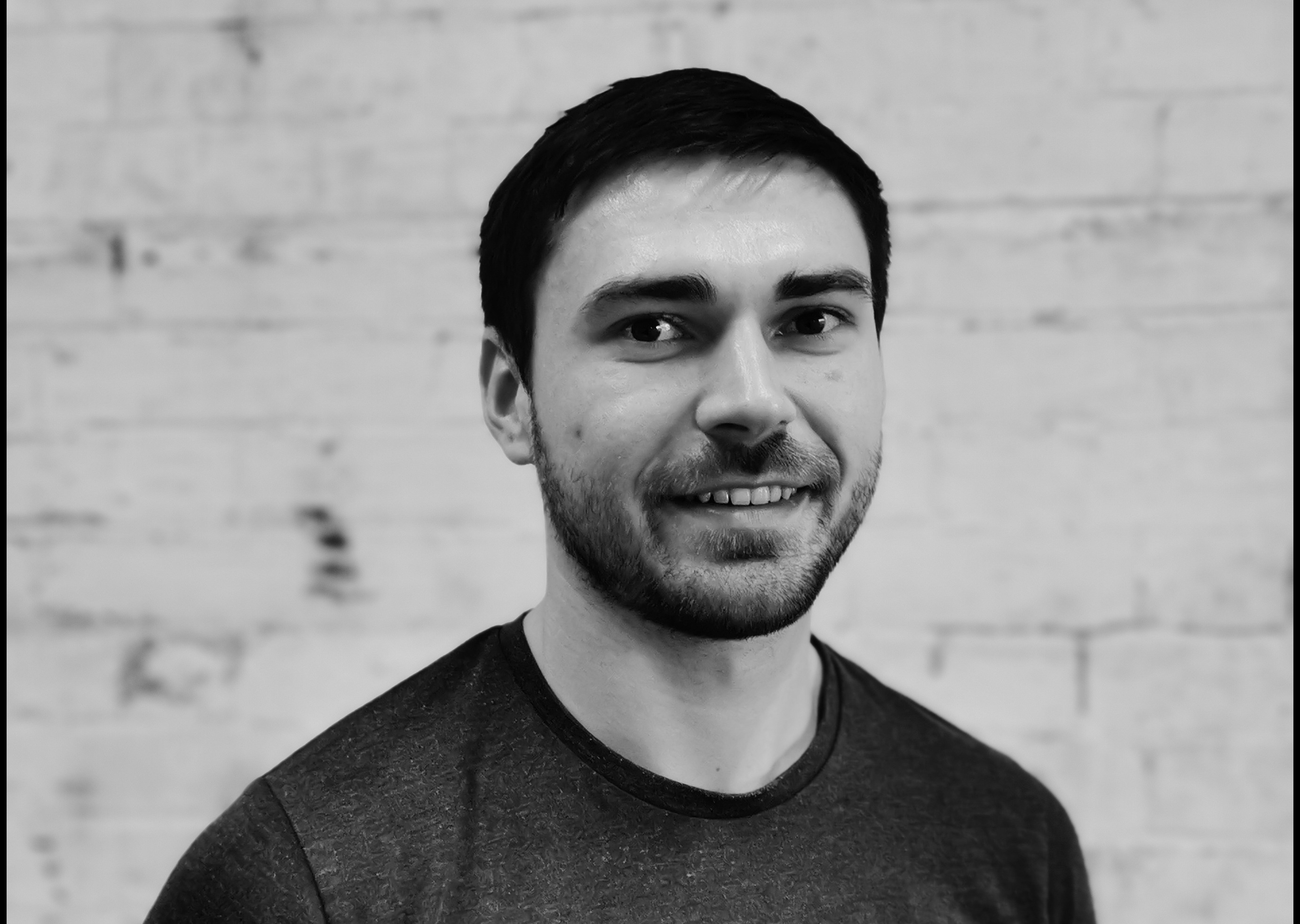
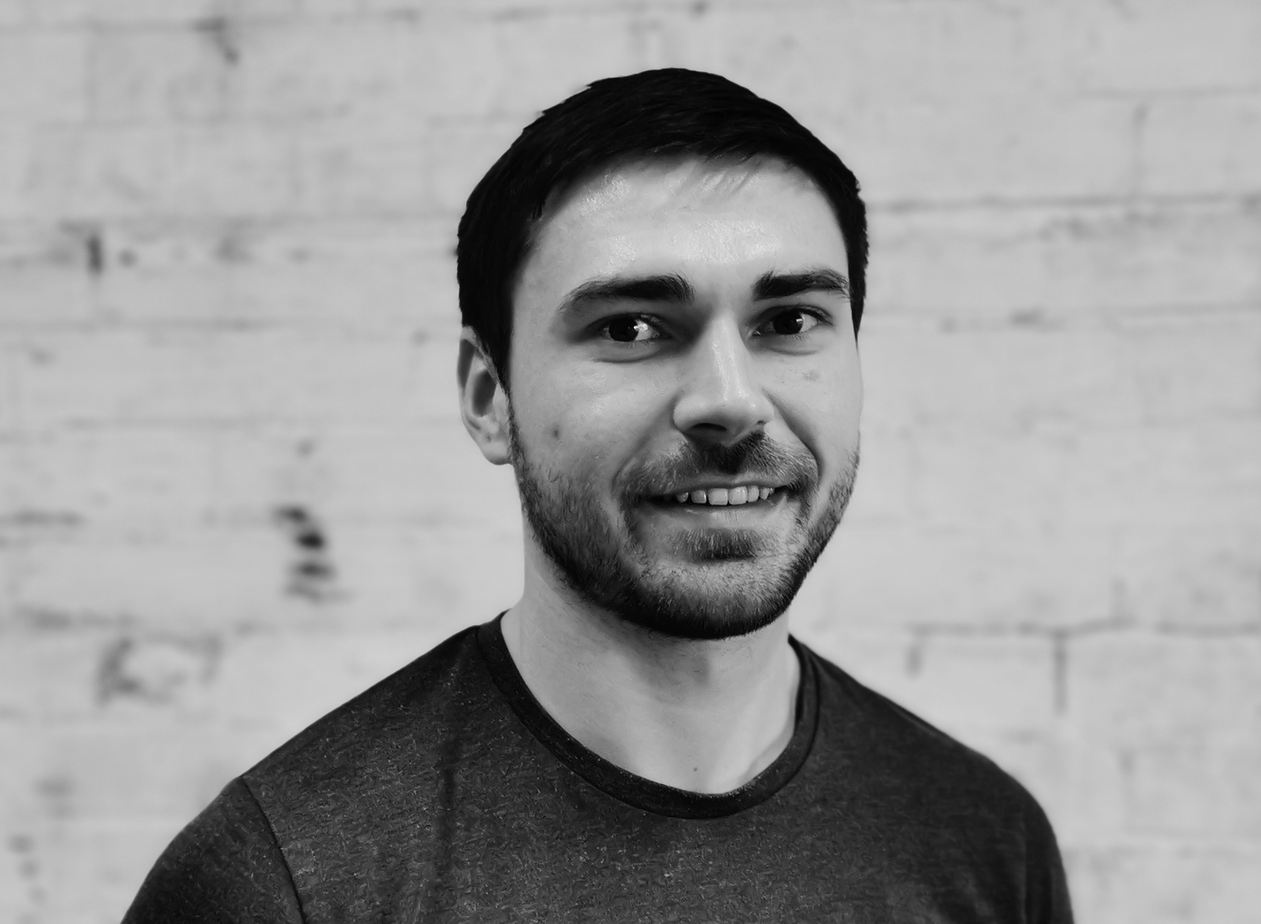
Add back in Get to know me section and add borders to images

diff --git a/gridsome-portfolio-starter/src/pages/Index.vue b/gridsome-portfolio-starter/src/pages/Index.vue
@@ -6,7 +6,7 @@
         <div class="text-green-700 leading-tight">Software Engineer</div>
       </div>
       <div class="mt-8 sm:mt-0">
-        <img src="../../static/portrait_1.jpg" alt="hero" width=300 class="mx-auto sm:mx-0" />
+        <img src="../../static/portrait_1.jpg" alt="hero" width=300 class="mx-auto sm:mx-0 border-8 border-green-700" />
       </div>
     </div> <!-- end hero -->
 
@@ -42,6 +42,22 @@
 
         </ul>
       </div> <!-- end projects -->
+    </div>
+
+    <div class="overflow-x-hidden border-gray-200 border-b">
+      <div class="get-to-know-me container-inner mx-auto text-xl pb-16 relative">
+        <h2 class="font-bold mb-6" id="about">Get to know me:</h2>
+
+        <div class="absolute left-0" style="top: 50px; transform: translateX(-100%)">
+          <svg width="170px" height="170px"><use xlink:href="#dots-triangle" /></svg>
+        </div>
+
+        <div class="flex flex-col sm:flex-row justify-between items-center mb-16">
+          <div><g-image src="../../static/skate.jpg" alt="avatar" class="w-32 h-32 rounded-full mb-8 lg:mb-0 border-4 border-green-700" /></div>
+          <div class="flex-1 text-lg sm:text-xl ml-6">In my spare time I skateboard, go to the gym and listen to audiobooks - mostly non-fiction!</div>
+        </div>
+
+      </div> <!-- end get-to-know me -->
     </div>
       <div class="container-inner mx-auto -mt-32 pb-4 overflow-x-hidden">
         <svg width="725" height="166" xmlns="http://www.w3.org/2000/svg"><g fill="none" fill-rule="evenodd"><g opacity=".515"><path d="M1.848 165.696a1.848 1.848 0 1 1 0-3.696 1.848 1.848 0 0 1 0 3.696zm370 0a1.848 1.848 0 1 1 0-3.696 1.848 1.848 0 0 1 0 3.696zM20.326 162a1.848 1.848 0 1 1 0 3.696 1.848 1.848 0 0 1 0-3.696zm370 0a1.848 1.848 0 1 1 0 3.696 1.848 1.848 0 0 1 0-3.696zm-351.522 0a1.848 1.848 0 1 1 0 3.696 1.848 1.848 0 0 1 0-3.696zm370 0a1.848 1.848 0 1 1 0 3.696 1.848 1.848 0 0 1 0-3.696zm-351.521 0a1.848 1.848 0 1 1 0 3.696 1.848 1.848 0 0 1 0-3.696zm370 0a1.848 1.848 0 1 1 0 3.696 1.848 1.848 0 0 1 0-3.696zM75.76 162a1.848 1.848 0 1 1 0 3.696 1.848 1.848 0 0 1 0-3.696zm370 0a1.848 1.848 0 1 1 0 3.696 1.848 1.848 0 0 1 0-3.696zm-351.52 0a1.848 1.848 0 1 1 0 3.696 1.848 1.848 0 0 1 0-3.696zm370 0a1.848 1.848 0 1 1 0 3.696 1.848 1.848 0 0 1 0-3.696zm-351.522 0a1.848 1.848 0 1 1 0 3.696 1.848 1.848 0 0 1 0-3.696zm370 0a1.848 1.848 0 1 1 0 3.696 1.848 1.848 0 0 1 0-3.696zm-351.521 0a1.848 1.848 0 1 1 0 3.696 1.848 1.848 0 0 1 0-3.696zm370 0a1.848 1.848 0 1 1 0 3.696 1.848 1.848 0 0 1 0-3.696zm-351.522 0a1.848 1.848 0 1 1 0 3.696 1.848 1.848 0 0 1 0-3.696zm370 0a1.848 1.848 0 1 1 0 3.696 1.848 1.848 0 0 1 0-3.696zm-351.522 0a1.848 1.848 0 1 1 0 3.696 1.848 1.848 0 0 1 0-3.696zm370 0a1.848 1.848 0 1 1 0 3.696 1.848 1.848 0 0 1 0-3.696zm-351.305 3.696a1.848 1.848 0 1 1 0-3.696 1.848 1.848 0 0 1 0 3.696zm370 0a1.848 1.848 0 1 1 0-3.696 1.848 1.848 0 0 1 0 3.696zM205.326 162a1.848 1.848 0 1 1 0 3.696 1.848 1.848 0 0 1 0-3.696zm370 0a1.848 1.848 0 1 1 0 3.696 1.848 1.848 0 0 1 0-3.696zm-351.522 0a1.848 1.848 0 1 1 0 3.696 1.848 1.848 0 0 1 0-3.696zm370 0a1.848 1.848 0 1 1 0 3.696 1.848 1.848 0 0 1 0-3.696zm-351.521 0a1.848 1.848 0 1 1 0 3.696 1.848 1.848 0 0 1 0-3.696zm370 0a1.848 1.848 0 1 1 0 3.696 1.848 1.848 0 0 1 0-3.696zm-351.523 0a1.848 1.848 0 1 1 0 3.696 1.848 1.848 0 0 1 0-3.696zm370 0a1.848 1.848 0 1 1 0 3.696 1.848 1.848 0 0 1 0-3.696zm-351.52 0a1.848 1.848 0 1 1 0 3.696 1.848 1.848 0 0 1 0-3.696zm370 0a1.848 1.848 0 1 1 0 3.696 1.848 1.848 0 0 1 0-3.696zm-351.522 0a1.848 1.848 0 1 1 0 3.696 1.848 1.848 0 0 1 0-3.696zm370 0a1.848 1.848 0 1 1 0 3.696 1.848 1.848 0 0 1 0-3.696zm-351.521 0a1.848 1.848 0 1 1 0 3.696 1.848 1.848 0 0 1 0-3.696zm370 0a1.848 1.848 0 1 1 0 3.696 1.848 1.848 0 0 1 0-3.696zm-351.522 0a1.848 1.848 0 1 1 0 3.696 1.848 1.848 0 0 1 0-3.696zm370 0a1.848 1.848 0 1 1 0 3.696 1.848 1.848 0 0 1 0-3.696zm-351.522 0a1.848 1.848 0 1 1 0 3.696 1.848 1.848 0 0 1 0-3.696zm370 0a1.848 1.848 0 1 1 0 3.696 1.848 1.848 0 0 1 0-3.696z" opacity=".503" fill="#2E855A"/></g><g opacity=".9"><g opacity=".515" fill="#2E855A"><path d="M1.848 147.696a1.848 1.848 0 1 1 0-3.696 1.848 1.848 0 0 1 0 3.696zm370 0a1.848 1.848 0 1 1 0-3.696 1.848 1.848 0 0 1 0 3.696zM20.326 144a1.848 1.848 0 1 1 0 3.696 1.848 1.848 0 0 1 0-3.696zm370 0a1.848 1.848 0 1 1 0 3.696 1.848 1.848 0 0 1 0-3.696zm-351.522 0a1.848 1.848 0 1 1 0 3.696 1.848 1.848 0 0 1 0-3.696zm370 0a1.848 1.848 0 1 1 0 3.696 1.848 1.848 0 0 1 0-3.696zm-351.521 0a1.848 1.848 0 1 1 0 3.696 1.848 1.848 0 0 1 0-3.696zm370 0a1.848 1.848 0 1 1 0 3.696 1.848 1.848 0 0 1 0-3.696zM75.76 144a1.848 1.848 0 1 1 0 3.696 1.848 1.848 0 0 1 0-3.696zm370 0a1.848 1.848 0 1 1 0 3.696 1.848 1.848 0 0 1 0-3.696zm-351.52 0a1.848 1.848 0 1 1 0 3.696 1.848 1.848 0 0 1 0-3.696zm370 0a1.848 1.848 0 1 1 0 3.696 1.848 1.848 0 0 1 0-3.696zm-351.522 0a1.848 1.848 0 1 1 0 3.696 1.848 1.848 0 0 1 0-3.696zm370 0a1.848 1.848 0 1 1 0 3.696 1.848 1.848 0 0 1 0-3.696zm-351.521 0a1.848 1.848 0 1 1 0 3.696 1.848 1.848 0 0 1 0-3.696zm370 0a1.848 1.848 0 1 1 0 3.696 1.848 1.848 0 0 1 0-3.696zm-351.522 0a1.848 1.848 0 1 1 0 3.696 1.848 1.848 0 0 1 0-3.696zm370 0a1.848 1.848 0 1 1 0 3.696 1.848 1.848 0 0 1 0-3.696zm-351.522 0a1.848 1.848 0 1 1 0 3.696 1.848 1.848 0 0 1 0-3.696zm370 0a1.848 1.848 0 1 1 0 3.696 1.848 1.848 0 0 1 0-3.696zm-351.305 3.696a1.848 1.848 0 1 1 0-3.696 1.848 1.848 0 0 1 0 3.696zm370 0a1.848 1.848 0 1 1 0-3.696 1.848 1.848 0 0 1 0 3.696zM205.326 144a1.848 1.848 0 1 1 0 3.696 1.848 1.848 0 0 1 0-3.696zm370 0a1.848 1.848 0 1 1 0 3.696 1.848 1.848 0 0 1 0-3.696zm-351.522 0a1.848 1.848 0 1 1 0 3.696 1.848 1.848 0 0 1 0-3.696zm370 0a1.848 1.848 0 1 1 0 3.696 1.848 1.848 0 0 1 0-3.696zm-351.521 0a1.848 1.848 0 1 1 0 3.696 1.848 1.848 0 0 1 0-3.696zm370 0a1.848 1.848 0 1 1 0 3.696 1.848 1.848 0 0 1 0-3.696zm-351.523 0a1.848 1.848 0 1 1 0 3.696 1.848 1.848 0 0 1 0-3.696zm370 0a1.848 1.848 0 1 1 0 3.696 1.848 1.848 0 0 1 0-3.696zm-351.52 0a1.848 1.848 0 1 1 0 3.696 1.848 1.848 0 0 1 0-3.696zm370 0a1.848 1.848 0 1 1 0 3.696 1.848 1.848 0 0 1 0-3.696zm-351.522 0a1.848 1.848 0 1 1 0 3.696 1.848 1.848 0 0 1 0-3.696zm370 0a1.848 1.848 0 1 1 0 3.696 1.848 1.848 0 0 1 0-3.696zm-351.521 0a1.848 1.848 0 1 1 0 3.696 1.848 1.848 0 0 1 0-3.696zm370 0a1.848 1.848 0 1 1 0 3.696 1.848 1.848 0 0 1 0-3.696zm-351.522 0a1.848 1.848 0 1 1 0 3.696 1.848 1.848 0 0 1 0-3.696zm370 0a1.848 1.848 0 1 1 0 3.696 1.848 1.848 0 0 1 0-3.696zm-351.522 0a1.848 1.848 0 1 1 0 3.696 1.848 1.848 0 0 1 0-3.696zm370 0a1.848 1.848 0 1 1 0 3.696 1.848 1.848 0 0 1 0-3.696z" opacity=".503"/></g></g><g opacity=".8"><g opacity=".515" fill="#2E855A"><path d="M1.848 129.696a1.848 1.848 0 1 1 0-3.696 1.848 1.848 0 0 1 0 3.696zm370 0a1.848 1.848 0 1 1 0-3.696 1.848 1.848 0 0 1 0 3.696zM20.326 126a1.848 1.848 0 1 1 0 3.696 1.848 1.848 0 0 1 0-3.696zm370 0a1.848 1.848 0 1 1 0 3.696 1.848 1.848 0 0 1 0-3.696zm-351.522 0a1.848 1.848 0 1 1 0 3.696 1.848 1.848 0 0 1 0-3.696zm370 0a1.848 1.848 0 1 1 0 3.696 1.848 1.848 0 0 1 0-3.696zm-351.521 0a1.848 1.848 0 1 1 0 3.696 1.848 1.848 0 0 1 0-3.696zm370 0a1.848 1.848 0 1 1 0 3.696 1.848 1.848 0 0 1 0-3.696zM75.76 126a1.848 1.848 0 1 1 0 3.696 1.848 1.848 0 0 1 0-3.696zm370 0a1.848 1.848 0 1 1 0 3.696 1.848 1.848 0 0 1 0-3.696zm-351.52 0a1.848 1.848 0 1 1 0 3.696 1.848 1.848 0 0 1 0-3.696zm370 0a1.848 1.848 0 1 1 0 3.696 1.848 1.848 0 0 1 0-3.696zm-351.522 0a1.848 1.848 0 1 1 0 3.696 1.848 1.848 0 0 1 0-3.696zm370 0a1.848 1.848 0 1 1 0 3.696 1.848 1.848 0 0 1 0-3.696zm-351.521 0a1.848 1.848 0 1 1 0 3.696 1.848 1.848 0 0 1 0-3.696zm370 0a1.848 1.848 0 1 1 0 3.696 1.848 1.848 0 0 1 0-3.696zm-351.522 0a1.848 1.848 0 1 1 0 3.696 1.848 1.848 0 0 1 0-3.696zm370 0a1.848 1.848 0 1 1 0 3.696 1.848 1.848 0 0 1 0-3.696zm-351.522 0a1.848 1.848 0 1 1 0 3.696 1.848 1.848 0 0 1 0-3.696zm370 0a1.848 1.848 0 1 1 0 3.696 1.848 1.848 0 0 1 0-3.696zm-351.305 3.696a1.848 1.848 0 1 1 0-3.696 1.848 1.848 0 0 1 0 3.696zm370 0a1.848 1.848 0 1 1 0-3.696 1.848 1.848 0 0 1 0 3.696zM205.326 126a1.848 1.848 0 1 1 0 3.696 1.848 1.848 0 0 1 0-3.696zm370 0a1.848 1.848 0 1 1 0 3.696 1.848 1.848 0 0 1 0-3.696zm-351.522 0a1.848 1.848 0 1 1 0 3.696 1.848 1.848 0 0 1 0-3.696zm370 0a1.848 1.848 0 1 1 0 3.696 1.848 1.848 0 0 1 0-3.696zm-351.521 0a1.848 1.848 0 1 1 0 3.696 1.848 1.848 0 0 1 0-3.696zm370 0a1.848 1.848 0 1 1 0 3.696 1.848 1.848 0 0 1 0-3.696zm-351.523 0a1.848 1.848 0 1 1 0 3.696 1.848 1.848 0 0 1 0-3.696zm370 0a1.848 1.848 0 1 1 0 3.696 1.848 1.848 0 0 1 0-3.696zm-351.52 0a1.848 1.848 0 1 1 0 3.696 1.848 1.848 0 0 1 0-3.696zm370 0a1.848 1.848 0 1 1 0 3.696 1.848 1.848 0 0 1 0-3.696zm-351.522 0a1.848 1.848 0 1 1 0 3.696 1.848 1.848 0 0 1 0-3.696zm370 0a1.848 1.848 0 1 1 0 3.696 1.848 1.848 0 0 1 0-3.696zm-351.521 0a1.848 1.848 0 1 1 0 3.696 1.848 1.848 0 0 1 0-3.696zm370 0a1.848 1.848 0 1 1 0 3.696 1.848 1.848 0 0 1 0-3.696zm-351.522 0a1.848 1.848 0 1 1 0 3.696 1.848 1.848 0 0 1 0-3.696zm370 0a1.848 1.848 0 1 1 0 3.696 1.848 1.848 0 0 1 0-3.696zm-351.522 0a1.848 1.848 0 1 1 0 3.696 1.848 1.848 0 0 1 0-3.696zm370 0a1.848 1.848 0 1 1 0 3.696 1.848 1.848 0 0 1 0-3.696z" opacity=".503"/></g></g><g opacity=".7"><g opacity=".515" fill="#2E855A"><path d="M1.848 111.696a1.848 1.848 0 1 1 0-3.696 1.848 1.848 0 0 1 0 3.696zm370 0a1.848 1.848 0 1 1 0-3.696 1.848 1.848 0 0 1 0 3.696zM20.326 108a1.848 1.848 0 1 1 0 3.696 1.848 1.848 0 0 1 0-3.696zm370 0a1.848 1.848 0 1 1 0 3.696 1.848 1.848 0 0 1 0-3.696zm-351.522 0a1.848 1.848 0 1 1 0 3.696 1.848 1.848 0 0 1 0-3.696zm370 0a1.848 1.848 0 1 1 0 3.696 1.848 1.848 0 0 1 0-3.696zm-351.521 0a1.848 1.848 0 1 1 0 3.696 1.848 1.848 0 0 1 0-3.696zm370 0a1.848 1.848 0 1 1 0 3.696 1.848 1.848 0 0 1 0-3.696zM75.76 108a1.848 1.848 0 1 1 0 3.696 1.848 1.848 0 0 1 0-3.696zm370 0a1.848 1.848 0 1 1 0 3.696 1.848 1.848 0 0 1 0-3.696zm-351.52 0a1.848 1.848 0 1 1 0 3.696 1.848 1.848 0 0 1 0-3.696zm370 0a1.848 1.848 0 1 1 0 3.696 1.848 1.848 0 0 1 0-3.696zm-351.522 0a1.848 1.848 0 1 1 0 3.696 1.848 1.848 0 0 1 0-3.696zm370 0a1.848 1.848 0 1 1 0 3.696 1.848 1.848 0 0 1 0-3.696zm-351.521 0a1.848 1.848 0 1 1 0 3.696 1.848 1.848 0 0 1 0-3.696zm370 0a1.848 1.848 0 1 1 0 3.696 1.848 1.848 0 0 1 0-3.696zm-351.522 0a1.848 1.848 0 1 1 0 3.696 1.848 1.848 0 0 1 0-3.696zm370 0a1.848 1.848 0 1 1 0 3.696 1.848 1.848 0 0 1 0-3.696zm-351.522 0a1.848 1.848 0 1 1 0 3.696 1.848 1.848 0 0 1 0-3.696zm370 0a1.848 1.848 0 1 1 0 3.696 1.848 1.848 0 0 1 0-3.696zm-351.305 3.696a1.848 1.848 0 1 1 0-3.696 1.848 1.848 0 0 1 0 3.696zm370 0a1.848 1.848 0 1 1 0-3.696 1.848 1.848 0 0 1 0 3.696zM205.326 108a1.848 1.848 0 1 1 0 3.696 1.848 1.848 0 0 1 0-3.696zm370 0a1.848 1.848 0 1 1 0 3.696 1.848 1.848 0 0 1 0-3.696zm-351.522 0a1.848 1.848 0 1 1 0 3.696 1.848 1.848 0 0 1 0-3.696zm370 0a1.848 1.848 0 1 1 0 3.696 1.848 1.848 0 0 1 0-3.696zm-351.521 0a1.848 1.848 0 1 1 0 3.696 1.848 1.848 0 0 1 0-3.696zm370 0a1.848 1.848 0 1 1 0 3.696 1.848 1.848 0 0 1 0-3.696zm-351.523 0a1.848 1.848 0 1 1 0 3.696 1.848 1.848 0 0 1 0-3.696zm370 0a1.848 1.848 0 1 1 0 3.696 1.848 1.848 0 0 1 0-3.696zm-351.52 0a1.848 1.848 0 1 1 0 3.696 1.848 1.848 0 0 1 0-3.696zm370 0a1.848 1.848 0 1 1 0 3.696 1.848 1.848 0 0 1 0-3.696zm-351.522 0a1.848 1.848 0 1 1 0 3.696 1.848 1.848 0 0 1 0-3.696zm370 0a1.848 1.848 0 1 1 0 3.696 1.848 1.848 0 0 1 0-3.696zm-351.521 0a1.848 1.848 0 1 1 0 3.696 1.848 1.848 0 0 1 0-3.696zm370 0a1.848 1.848 0 1 1 0 3.696 1.848 1.848 0 0 1 0-3.696zm-351.522 0a1.848 1.848 0 1 1 0 3.696 1.848 1.848 0 0 1 0-3.696zm370 0a1.848 1.848 0 1 1 0 3.696 1.848 1.848 0 0 1 0-3.696zm-351.522 0a1.848 1.848 0 1 1 0 3.696 1.848 1.848 0 0 1 0-3.696zm370 0a1.848 1.848 0 1 1 0 3.696 1.848 1.848 0 0 1 0-3.696z" opacity=".503"/></g></g><g opacity=".6"><g opacity=".515" fill="#2E855A"><path d="M1.848 93.696a1.848 1.848 0 1 1 0-3.696 1.848 1.848 0 0 1 0 3.696zm370 0a1.848 1.848 0 1 1 0-3.696 1.848 1.848 0 0 1 0 3.696zM20.326 90a1.848 1.848 0 1 1 0 3.696 1.848 1.848 0 0 1 0-3.696zm370 0a1.848 1.848 0 1 1 0 3.696 1.848 1.848 0 0 1 0-3.696zM38.804 90a1.848 1.848 0 1 1 0 3.696 1.848 1.848 0 0 1 0-3.696zm370 0a1.848 1.848 0 1 1 0 3.696 1.848 1.848 0 0 1 0-3.696zM57.283 90a1.848 1.848 0 1 1 0 3.696 1.848 1.848 0 0 1 0-3.696zm370 0a1.848 1.848 0 1 1 0 3.696 1.848 1.848 0 0 1 0-3.696zM75.76 90a1.848 1.848 0 1 1 0 3.696 1.848 1.848 0 0 1 0-3.696zm370 0a1.848 1.848 0 1 1 0 3.696 1.848 1.848 0 0 1 0-3.696zM94.24 90a1.848 1.848 0 1 1 0 3.696 1.848 1.848 0 0 1 0-3.696zm370 0a1.848 1.848 0 1 1 0 3.696 1.848 1.848 0 0 1 0-3.696zm-351.522 0a1.848 1.848 0 1 1 0 3.696 1.848 1.848 0 0 1 0-3.696zm370 0a1.848 1.848 0 1 1 0 3.696 1.848 1.848 0 0 1 0-3.696zm-351.521 0a1.848 1.848 0 1 1 0 3.696 1.848 1.848 0 0 1 0-3.696zm370 0a1.848 1.848 0 1 1 0 3.696 1.848 1.848 0 0 1 0-3.696zm-351.522 0a1.848 1.848 0 1 1 0 3.696 1.848 1.848 0 0 1 0-3.696zm370 0a1.848 1.848 0 1 1 0 3.696 1.848 1.848 0 0 1 0-3.696zm-351.522 0a1.848 1.848 0 1 1 0 3.696 1.848 1.848 0 0 1 0-3.696zm370 0a1.848 1.848 0 1 1 0 3.696 1.848 1.848 0 0 1 0-3.696zm-351.305 3.696a1.848 1.848 0 1 1 0-3.696 1.848 1.848 0 0 1 0 3.696zm370 0a1.848 1.848 0 1 1 0-3.696 1.848 1.848 0 0 1 0 3.696zM205.326 90a1.848 1.848 0 1 1 0 3.696 1.848 1.848 0 0 1 0-3.696zm370 0a1.848 1.848 0 1 1 0 3.696 1.848 1.848 0 0 1 0-3.696zm-351.522 0a1.848 1.848 0 1 1 0 3.696 1.848 1.848 0 0 1 0-3.696zm370 0a1.848 1.848 0 1 1 0 3.696 1.848 1.848 0 0 1 0-3.696zm-351.521 0a1.848 1.848 0 1 1 0 3.696 1.848 1.848 0 0 1 0-3.696zm370 0a1.848 1.848 0 1 1 0 3.696 1.848 1.848 0 0 1 0-3.696zM260.76 90a1.848 1.848 0 1 1 0 3.696 1.848 1.848 0 0 1 0-3.696zm370 0a1.848 1.848 0 1 1 0 3.696 1.848 1.848 0 0 1 0-3.696zm-351.52 0a1.848 1.848 0 1 1 0 3.696 1.848 1.848 0 0 1 0-3.696zm370 0a1.848 1.848 0 1 1 0 3.696 1.848 1.848 0 0 1 0-3.696zm-351.522 0a1.848 1.848 0 1 1 0 3.696 1.848 1.848 0 0 1 0-3.696zm370 0a1.848 1.848 0 1 1 0 3.696 1.848 1.848 0 0 1 0-3.696zm-351.521 0a1.848 1.848 0 1 1 0 3.696 1.848 1.848 0 0 1 0-3.696zm370 0a1.848 1.848 0 1 1 0 3.696 1.848 1.848 0 0 1 0-3.696zm-351.522 0a1.848 1.848 0 1 1 0 3.696 1.848 1.848 0 0 1 0-3.696zm370 0a1.848 1.848 0 1 1 0 3.696 1.848 1.848 0 0 1 0-3.696zm-351.522 0a1.848 1.848 0 1 1 0 3.696 1.848 1.848 0 0 1 0-3.696zm370 0a1.848 1.848 0 1 1 0 3.696 1.848 1.848 0 0 1 0-3.696z" opacity=".503"/></g></g><g opacity=".5"><g opacity=".515" fill="#2E855A"><path d="M1.848 75.696a1.848 1.848 0 1 1 0-3.696 1.848 1.848 0 0 1 0 3.696zm370 0a1.848 1.848 0 1 1 0-3.696 1.848 1.848 0 0 1 0 3.696zM20.326 72a1.848 1.848 0 1 1 0 3.696 1.848 1.848 0 0 1 0-3.696zm370 0a1.848 1.848 0 1 1 0 3.696 1.848 1.848 0 0 1 0-3.696zM38.804 72a1.848 1.848 0 1 1 0 3.696 1.848 1.848 0 0 1 0-3.696zm370 0a1.848 1.848 0 1 1 0 3.696 1.848 1.848 0 0 1 0-3.696zM57.283 72a1.848 1.848 0 1 1 0 3.696 1.848 1.848 0 0 1 0-3.696zm370 0a1.848 1.848 0 1 1 0 3.696 1.848 1.848 0 0 1 0-3.696zM75.76 72a1.848 1.848 0 1 1 0 3.696 1.848 1.848 0 0 1 0-3.696zm370 0a1.848 1.848 0 1 1 0 3.696 1.848 1.848 0 0 1 0-3.696zM94.24 72a1.848 1.848 0 1 1 0 3.696 1.848 1.848 0 0 1 0-3.696zm370 0a1.848 1.848 0 1 1 0 3.696 1.848 1.848 0 0 1 0-3.696zm-351.522 0a1.848 1.848 0 1 1 0 3.696 1.848 1.848 0 0 1 0-3.696zm370 0a1.848 1.848 0 1 1 0 3.696 1.848 1.848 0 0 1 0-3.696zm-351.521 0a1.848 1.848 0 1 1 0 3.696 1.848 1.848 0 0 1 0-3.696zm370 0a1.848 1.848 0 1 1 0 3.696 1.848 1.848 0 0 1 0-3.696zm-351.522 0a1.848 1.848 0 1 1 0 3.696 1.848 1.848 0 0 1 0-3.696zm370 0a1.848 1.848 0 1 1 0 3.696 1.848 1.848 0 0 1 0-3.696zm-351.522 0a1.848 1.848 0 1 1 0 3.696 1.848 1.848 0 0 1 0-3.696zm370 0a1.848 1.848 0 1 1 0 3.696 1.848 1.848 0 0 1 0-3.696zm-351.305 3.696a1.848 1.848 0 1 1 0-3.696 1.848 1.848 0 0 1 0 3.696zm370 0a1.848 1.848 0 1 1 0-3.696 1.848 1.848 0 0 1 0 3.696zM205.326 72a1.848 1.848 0 1 1 0 3.696 1.848 1.848 0 0 1 0-3.696zm370 0a1.848 1.848 0 1 1 0 3.696 1.848 1.848 0 0 1 0-3.696zm-351.522 0a1.848 1.848 0 1 1 0 3.696 1.848 1.848 0 0 1 0-3.696zm370 0a1.848 1.848 0 1 1 0 3.696 1.848 1.848 0 0 1 0-3.696zm-351.521 0a1.848 1.848 0 1 1 0 3.696 1.848 1.848 0 0 1 0-3.696zm370 0a1.848 1.848 0 1 1 0 3.696 1.848 1.848 0 0 1 0-3.696zM260.76 72a1.848 1.848 0 1 1 0 3.696 1.848 1.848 0 0 1 0-3.696zm370 0a1.848 1.848 0 1 1 0 3.696 1.848 1.848 0 0 1 0-3.696zm-351.52 0a1.848 1.848 0 1 1 0 3.696 1.848 1.848 0 0 1 0-3.696zm370 0a1.848 1.848 0 1 1 0 3.696 1.848 1.848 0 0 1 0-3.696zm-351.522 0a1.848 1.848 0 1 1 0 3.696 1.848 1.848 0 0 1 0-3.696zm370 0a1.848 1.848 0 1 1 0 3.696 1.848 1.848 0 0 1 0-3.696zm-351.521 0a1.848 1.848 0 1 1 0 3.696 1.848 1.848 0 0 1 0-3.696zm370 0a1.848 1.848 0 1 1 0 3.696 1.848 1.848 0 0 1 0-3.696zm-351.522 0a1.848 1.848 0 1 1 0 3.696 1.848 1.848 0 0 1 0-3.696zm370 0a1.848 1.848 0 1 1 0 3.696 1.848 1.848 0 0 1 0-3.696zm-351.522 0a1.848 1.848 0 1 1 0 3.696 1.848 1.848 0 0 1 0-3.696zm370 0a1.848 1.848 0 1 1 0 3.696 1.848 1.848 0 0 1 0-3.696z" opacity=".503"/></g></g><g opacity=".4"><g opacity=".515" fill="#2E855A"><path d="M1.848 57.696a1.848 1.848 0 1 1 0-3.696 1.848 1.848 0 0 1 0 3.696zm370 0a1.848 1.848 0 1 1 0-3.696 1.848 1.848 0 0 1 0 3.696zM20.326 54a1.848 1.848 0 1 1 0 3.696 1.848 1.848 0 0 1 0-3.696zm370 0a1.848 1.848 0 1 1 0 3.696 1.848 1.848 0 0 1 0-3.696zM38.804 54a1.848 1.848 0 1 1 0 3.696 1.848 1.848 0 0 1 0-3.696zm370 0a1.848 1.848 0 1 1 0 3.696 1.848 1.848 0 0 1 0-3.696zM57.283 54a1.848 1.848 0 1 1 0 3.696 1.848 1.848 0 0 1 0-3.696zm370 0a1.848 1.848 0 1 1 0 3.696 1.848 1.848 0 0 1 0-3.696zM75.76 54a1.848 1.848 0 1 1 0 3.696 1.848 1.848 0 0 1 0-3.696zm370 0a1.848 1.848 0 1 1 0 3.696 1.848 1.848 0 0 1 0-3.696zM94.24 54a1.848 1.848 0 1 1 0 3.696 1.848 1.848 0 0 1 0-3.696zm370 0a1.848 1.848 0 1 1 0 3.696 1.848 1.848 0 0 1 0-3.696zm-351.522 0a1.848 1.848 0 1 1 0 3.696 1.848 1.848 0 0 1 0-3.696zm370 0a1.848 1.848 0 1 1 0 3.696 1.848 1.848 0 0 1 0-3.696zm-351.521 0a1.848 1.848 0 1 1 0 3.696 1.848 1.848 0 0 1 0-3.696zm370 0a1.848 1.848 0 1 1 0 3.696 1.848 1.848 0 0 1 0-3.696zm-351.522 0a1.848 1.848 0 1 1 0 3.696 1.848 1.848 0 0 1 0-3.696zm370 0a1.848 1.848 0 1 1 0 3.696 1.848 1.848 0 0 1 0-3.696zm-351.522 0a1.848 1.848 0 1 1 0 3.696 1.848 1.848 0 0 1 0-3.696zm370 0a1.848 1.848 0 1 1 0 3.696 1.848 1.848 0 0 1 0-3.696zm-351.305 3.696a1.848 1.848 0 1 1 0-3.696 1.848 1.848 0 0 1 0 3.696zm370 0a1.848 1.848 0 1 1 0-3.696 1.848 1.848 0 0 1 0 3.696zM205.326 54a1.848 1.848 0 1 1 0 3.696 1.848 1.848 0 0 1 0-3.696zm370 0a1.848 1.848 0 1 1 0 3.696 1.848 1.848 0 0 1 0-3.696zm-351.522 0a1.848 1.848 0 1 1 0 3.696 1.848 1.848 0 0 1 0-3.696zm370 0a1.848 1.848 0 1 1 0 3.696 1.848 1.848 0 0 1 0-3.696zm-351.521 0a1.848 1.848 0 1 1 0 3.696 1.848 1.848 0 0 1 0-3.696zm370 0a1.848 1.848 0 1 1 0 3.696 1.848 1.848 0 0 1 0-3.696zM260.76 54a1.848 1.848 0 1 1 0 3.696 1.848 1.848 0 0 1 0-3.696zm370 0a1.848 1.848 0 1 1 0 3.696 1.848 1.848 0 0 1 0-3.696zm-351.52 0a1.848 1.848 0 1 1 0 3.696 1.848 1.848 0 0 1 0-3.696zm370 0a1.848 1.848 0 1 1 0 3.696 1.848 1.848 0 0 1 0-3.696zm-351.522 0a1.848 1.848 0 1 1 0 3.696 1.848 1.848 0 0 1 0-3.696zm370 0a1.848 1.848 0 1 1 0 3.696 1.848 1.848 0 0 1 0-3.696zm-351.521 0a1.848 1.848 0 1 1 0 3.696 1.848 1.848 0 0 1 0-3.696zm370 0a1.848 1.848 0 1 1 0 3.696 1.848 1.848 0 0 1 0-3.696zm-351.522 0a1.848 1.848 0 1 1 0 3.696 1.848 1.848 0 0 1 0-3.696zm370 0a1.848 1.848 0 1 1 0 3.696 1.848 1.848 0 0 1 0-3.696zm-351.522 0a1.848 1.848 0 1 1 0 3.696 1.848 1.848 0 0 1 0-3.696zm370 0a1.848 1.848 0 1 1 0 3.696 1.848 1.848 0 0 1 0-3.696z" opacity=".503"/></g></g><g opacity=".3"><g opacity=".515" fill="#2E855A"><path d="M1.848 39.696a1.848 1.848 0 1 1 0-3.696 1.848 1.848 0 0 1 0 3.696zm370 0a1.848 1.848 0 1 1 0-3.696 1.848 1.848 0 0 1 0 3.696zM20.326 36a1.848 1.848 0 1 1 0 3.696 1.848 1.848 0 0 1 0-3.696zm370 0a1.848 1.848 0 1 1 0 3.696 1.848 1.848 0 0 1 0-3.696zM38.804 36a1.848 1.848 0 1 1 0 3.696 1.848 1.848 0 0 1 0-3.696zm370 0a1.848 1.848 0 1 1 0 3.696 1.848 1.848 0 0 1 0-3.696zM57.283 36a1.848 1.848 0 1 1 0 3.696 1.848 1.848 0 0 1 0-3.696zm370 0a1.848 1.848 0 1 1 0 3.696 1.848 1.848 0 0 1 0-3.696zM75.76 36a1.848 1.848 0 1 1 0 3.696 1.848 1.848 0 0 1 0-3.696zm370 0a1.848 1.848 0 1 1 0 3.696 1.848 1.848 0 0 1 0-3.696zM94.24 36a1.848 1.848 0 1 1 0 3.696 1.848 1.848 0 0 1 0-3.696zm370 0a1.848 1.848 0 1 1 0 3.696 1.848 1.848 0 0 1 0-3.696zm-351.522 0a1.848 1.848 0 1 1 0 3.696 1.848 1.848 0 0 1 0-3.696zm370 0a1.848 1.848 0 1 1 0 3.696 1.848 1.848 0 0 1 0-3.696zm-351.521 0a1.848 1.848 0 1 1 0 3.696 1.848 1.848 0 0 1 0-3.696zm370 0a1.848 1.848 0 1 1 0 3.696 1.848 1.848 0 0 1 0-3.696zm-351.522 0a1.848 1.848 0 1 1 0 3.696 1.848 1.848 0 0 1 0-3.696zm370 0a1.848 1.848 0 1 1 0 3.696 1.848 1.848 0 0 1 0-3.696zm-351.522 0a1.848 1.848 0 1 1 0 3.696 1.848 1.848 0 0 1 0-3.696zm370 0a1.848 1.848 0 1 1 0 3.696 1.848 1.848 0 0 1 0-3.696zm-351.305 3.696a1.848 1.848 0 1 1 0-3.696 1.848 1.848 0 0 1 0 3.696zm370 0a1.848 1.848 0 1 1 0-3.696 1.848 1.848 0 0 1 0 3.696zM205.326 36a1.848 1.848 0 1 1 0 3.696 1.848 1.848 0 0 1 0-3.696zm370 0a1.848 1.848 0 1 1 0 3.696 1.848 1.848 0 0 1 0-3.696zm-351.522 0a1.848 1.848 0 1 1 0 3.696 1.848 1.848 0 0 1 0-3.696zm370 0a1.848 1.848 0 1 1 0 3.696 1.848 1.848 0 0 1 0-3.696zm-351.521 0a1.848 1.848 0 1 1 0 3.696 1.848 1.848 0 0 1 0-3.696zm370 0a1.848 1.848 0 1 1 0 3.696 1.848 1.848 0 0 1 0-3.696zM260.76 36a1.848 1.848 0 1 1 0 3.696 1.848 1.848 0 0 1 0-3.696zm370 0a1.848 1.848 0 1 1 0 3.696 1.848 1.848 0 0 1 0-3.696zm-351.52 0a1.848 1.848 0 1 1 0 3.696 1.848 1.848 0 0 1 0-3.696zm370 0a1.848 1.848 0 1 1 0 3.696 1.848 1.848 0 0 1 0-3.696zm-351.522 0a1.848 1.848 0 1 1 0 3.696 1.848 1.848 0 0 1 0-3.696zm370 0a1.848 1.848 0 1 1 0 3.696 1.848 1.848 0 0 1 0-3.696zm-351.521 0a1.848 1.848 0 1 1 0 3.696 1.848 1.848 0 0 1 0-3.696zm370 0a1.848 1.848 0 1 1 0 3.696 1.848 1.848 0 0 1 0-3.696zm-351.522 0a1.848 1.848 0 1 1 0 3.696 1.848 1.848 0 0 1 0-3.696zm370 0a1.848 1.848 0 1 1 0 3.696 1.848 1.848 0 0 1 0-3.696zm-351.522 0a1.848 1.848 0 1 1 0 3.696 1.848 1.848 0 0 1 0-3.696zm370 0a1.848 1.848 0 1 1 0 3.696 1.848 1.848 0 0 1 0-3.696z" opacity=".503"/></g></g><g opacity=".2"><g opacity=".515" fill="#1C75BC"><path d="M1.848 21.696a1.848 1.848 0 1 1 0-3.696 1.848 1.848 0 0 1 0 3.696zm370 0a1.848 1.848 0 1 1 0-3.696 1.848 1.848 0 0 1 0 3.696zM20.326 18a1.848 1.848 0 1 1 0 3.696 1.848 1.848 0 0 1 0-3.696zm370 0a1.848 1.848 0 1 1 0 3.696 1.848 1.848 0 0 1 0-3.696zM38.804 18a1.848 1.848 0 1 1 0 3.696 1.848 1.848 0 0 1 0-3.696zm370 0a1.848 1.848 0 1 1 0 3.696 1.848 1.848 0 0 1 0-3.696zM57.283 18a1.848 1.848 0 1 1 0 3.696 1.848 1.848 0 0 1 0-3.696zm370 0a1.848 1.848 0 1 1 0 3.696 1.848 1.848 0 0 1 0-3.696zM75.76 18a1.848 1.848 0 1 1 0 3.696 1.848 1.848 0 0 1 0-3.696zm370 0a1.848 1.848 0 1 1 0 3.696 1.848 1.848 0 0 1 0-3.696zM94.24 18a1.848 1.848 0 1 1 0 3.696 1.848 1.848 0 0 1 0-3.696zm370 0a1.848 1.848 0 1 1 0 3.696 1.848 1.848 0 0 1 0-3.696zm-351.522 0a1.848 1.848 0 1 1 0 3.696 1.848 1.848 0 0 1 0-3.696zm370 0a1.848 1.848 0 1 1 0 3.696 1.848 1.848 0 0 1 0-3.696zm-351.521 0a1.848 1.848 0 1 1 0 3.696 1.848 1.848 0 0 1 0-3.696zm370 0a1.848 1.848 0 1 1 0 3.696 1.848 1.848 0 0 1 0-3.696zm-351.522 0a1.848 1.848 0 1 1 0 3.696 1.848 1.848 0 0 1 0-3.696zm370 0a1.848 1.848 0 1 1 0 3.696 1.848 1.848 0 0 1 0-3.696zm-351.522 0a1.848 1.848 0 1 1 0 3.696 1.848 1.848 0 0 1 0-3.696zm370 0a1.848 1.848 0 1 1 0 3.696 1.848 1.848 0 0 1 0-3.696zm-351.305 3.696a1.848 1.848 0 1 1 0-3.696 1.848 1.848 0 0 1 0 3.696zm370 0a1.848 1.848 0 1 1 0-3.696 1.848 1.848 0 0 1 0 3.696zM205.326 18a1.848 1.848 0 1 1 0 3.696 1.848 1.848 0 0 1 0-3.696zm370 0a1.848 1.848 0 1 1 0 3.696 1.848 1.848 0 0 1 0-3.696zm-351.522 0a1.848 1.848 0 1 1 0 3.696 1.848 1.848 0 0 1 0-3.696zm370 0a1.848 1.848 0 1 1 0 3.696 1.848 1.848 0 0 1 0-3.696zm-351.521 0a1.848 1.848 0 1 1 0 3.696 1.848 1.848 0 0 1 0-3.696zm370 0a1.848 1.848 0 1 1 0 3.696 1.848 1.848 0 0 1 0-3.696zM260.76 18a1.848 1.848 0 1 1 0 3.696 1.848 1.848 0 0 1 0-3.696zm370 0a1.848 1.848 0 1 1 0 3.696 1.848 1.848 0 0 1 0-3.696zm-351.52 0a1.848 1.848 0 1 1 0 3.696 1.848 1.848 0 0 1 0-3.696zm370 0a1.848 1.848 0 1 1 0 3.696 1.848 1.848 0 0 1 0-3.696zm-351.522 0a1.848 1.848 0 1 1 0 3.696 1.848 1.848 0 0 1 0-3.696zm370 0a1.848 1.848 0 1 1 0 3.696 1.848 1.848 0 0 1 0-3.696zm-351.521 0a1.848 1.848 0 1 1 0 3.696 1.848 1.848 0 0 1 0-3.696zm370 0a1.848 1.848 0 1 1 0 3.696 1.848 1.848 0 0 1 0-3.696zm-351.522 0a1.848 1.848 0 1 1 0 3.696 1.848 1.848 0 0 1 0-3.696zm370 0a1.848 1.848 0 1 1 0 3.696 1.848 1.848 0 0 1 0-3.696zm-351.522 0a1.848 1.848 0 1 1 0 3.696 1.848 1.848 0 0 1 0-3.696zm370 0a1.848 1.848 0 1 1 0 3.696 1.848 1.848 0 0 1 0-3.696z" opacity=".503"/></g></g><g opacity=".1"><g opacity=".515" fill="#2E855A"><path d="M1.848 3.696a1.848 1.848 0 1 1 0-3.696 1.848 1.848 0 0 1 0 3.696zm370 0a1.848 1.848 0 1 1 0-3.696 1.848 1.848 0 0 1 0 3.696zM20.326 0a1.848 1.848 0 1 1 0 3.696 1.848 1.848 0 0 1 0-3.696zm370 0a1.848 1.848 0 1 1 0 3.696 1.848 1.848 0 0 1 0-3.696zM38.804 0a1.848 1.848 0 1 1 0 3.696 1.848 1.848 0 0 1 0-3.696zm370 0a1.848 1.848 0 1 1 0 3.696 1.848 1.848 0 0 1 0-3.696zM57.283 0a1.848 1.848 0 1 1 0 3.696 1.848 1.848 0 0 1 0-3.696zm370 0a1.848 1.848 0 1 1 0 3.696 1.848 1.848 0 0 1 0-3.696zM75.76 0a1.848 1.848 0 1 1 0 3.696 1.848 1.848 0 0 1 0-3.696zm370 0a1.848 1.848 0 1 1 0 3.696 1.848 1.848 0 0 1 0-3.696zM94.24 0a1.848 1.848 0 1 1 0 3.696 1.848 1.848 0 0 1 0-3.696zm370 0a1.848 1.848 0 1 1 0 3.696 1.848 1.848 0 0 1 0-3.696zM112.718 0a1.848 1.848 0 1 1 0 3.696 1.848 1.848 0 0 1 0-3.696zm370 0a1.848 1.848 0 1 1 0 3.696 1.848 1.848 0 0 1 0-3.696zM131.197 0a1.848 1.848 0 1 1 0 3.696 1.848 1.848 0 0 1 0-3.696zm370 0a1.848 1.848 0 1 1 0 3.696 1.848 1.848 0 0 1 0-3.696zM149.675 0a1.848 1.848 0 1 1 0 3.696 1.848 1.848 0 0 1 0-3.696zm370 0a1.848 1.848 0 1 1 0 3.696 1.848 1.848 0 0 1 0-3.696zM168.153 0a1.848 1.848 0 1 1 0 3.696 1.848 1.848 0 0 1 0-3.696zm370 0a1.848 1.848 0 1 1 0 3.696 1.848 1.848 0 0 1 0-3.696zM186.848 3.696a1.848 1.848 0 1 1 0-3.696 1.848 1.848 0 0 1 0 3.696zm370 0a1.848 1.848 0 1 1 0-3.696 1.848 1.848 0 0 1 0 3.696zM205.326 0a1.848 1.848 0 1 1 0 3.696 1.848 1.848 0 0 1 0-3.696zm370 0a1.848 1.848 0 1 1 0 3.696 1.848 1.848 0 0 1 0-3.696zM223.804 0a1.848 1.848 0 1 1 0 3.696 1.848 1.848 0 0 1 0-3.696zm370 0a1.848 1.848 0 1 1 0 3.696 1.848 1.848 0 0 1 0-3.696zM242.283 0a1.848 1.848 0 1 1 0 3.696 1.848 1.848 0 0 1 0-3.696zm370 0a1.848 1.848 0 1 1 0 3.696 1.848 1.848 0 0 1 0-3.696zM260.76 0a1.848 1.848 0 1 1 0 3.696 1.848 1.848 0 0 1 0-3.696zm370 0a1.848 1.848 0 1 1 0 3.696 1.848 1.848 0 0 1 0-3.696zM279.24 0a1.848 1.848 0 1 1 0 3.696 1.848 1.848 0 0 1 0-3.696zm370 0a1.848 1.848 0 1 1 0 3.696 1.848 1.848 0 0 1 0-3.696zM297.718 0a1.848 1.848 0 1 1 0 3.696 1.848 1.848 0 0 1 0-3.696zm370 0a1.848 1.848 0 1 1 0 3.696 1.848 1.848 0 0 1 0-3.696zM316.197 0a1.848 1.848 0 1 1 0 3.696 1.848 1.848 0 0 1 0-3.696zm370 0a1.848 1.848 0 1 1 0 3.696 1.848 1.848 0 0 1 0-3.696zM334.675 0a1.848 1.848 0 1 1 0 3.696 1.848 1.848 0 0 1 0-3.696zm370 0a1.848 1.848 0 1 1 0 3.696 1.848 1.848 0 0 1 0-3.696zM353.153 0a1.848 1.848 0 1 1 0 3.696 1.848 1.848 0 0 1 0-3.696zm370 0a1.848 1.848 0 1 1 0 3.696 1.848 1.848 0 0 1 0-3.696z" opacity=".503"/></g></g></g></svg>
